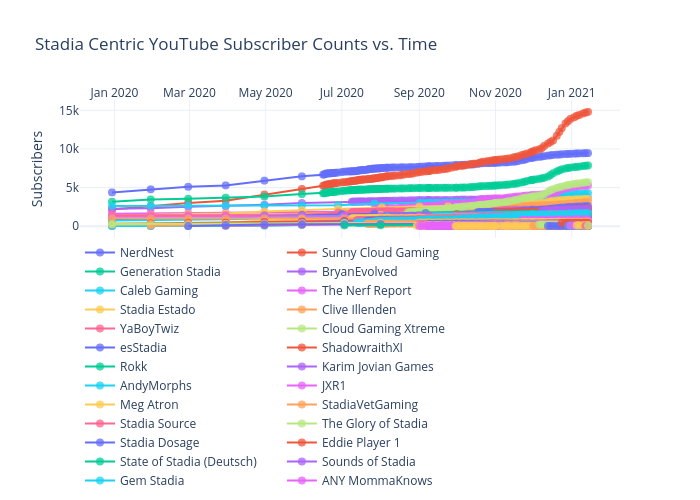
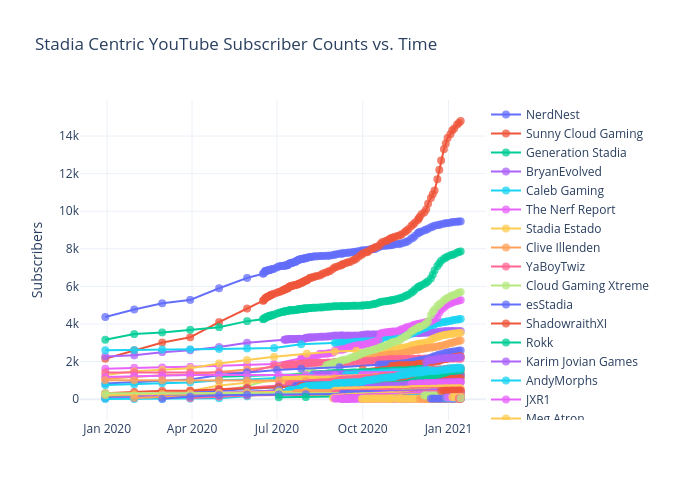
Add files via upload

diff --git a/figure.js b/figure.js
@@ -20384,11 +20384,11 @@ var figure = {
             "text": "Stadia Centric YouTube Subscriber Counts vs. Time"
         },
         "xaxis": {
-            "side": "top",
+            "side": "bottom",
             "type": "date",
             "range": [
-                "2019-12-06 10:37:52.6143",
-                "2021-02-06 13:22:07.3857"
+                "2019-12-06 01:35:09.9229",
+                "2021-02-06 22:24:50.0771"
             ],
             "title": {
                 "text": "<br>"
@@ -20398,8 +20398,8 @@ var figure = {
         "yaxis": {
             "type": "linear",
             "range": [
-                -2541.373949579832,
-                17348.373949579833
+                -1440.7536176694591,
+                16247.75361766946
             ],
             "title": {
                 "text": "Subscribers"
@@ -20407,9 +20407,9 @@ var figure = {
             "autorange": true
         },
         "legend": {
-            "x": 0,
-            "y": 0,
-            "orientation": "h"
+            "x": 1,
+            "y": 1,
+            "orientation": "v"
         },
         "autosize": true,
         "template": {
